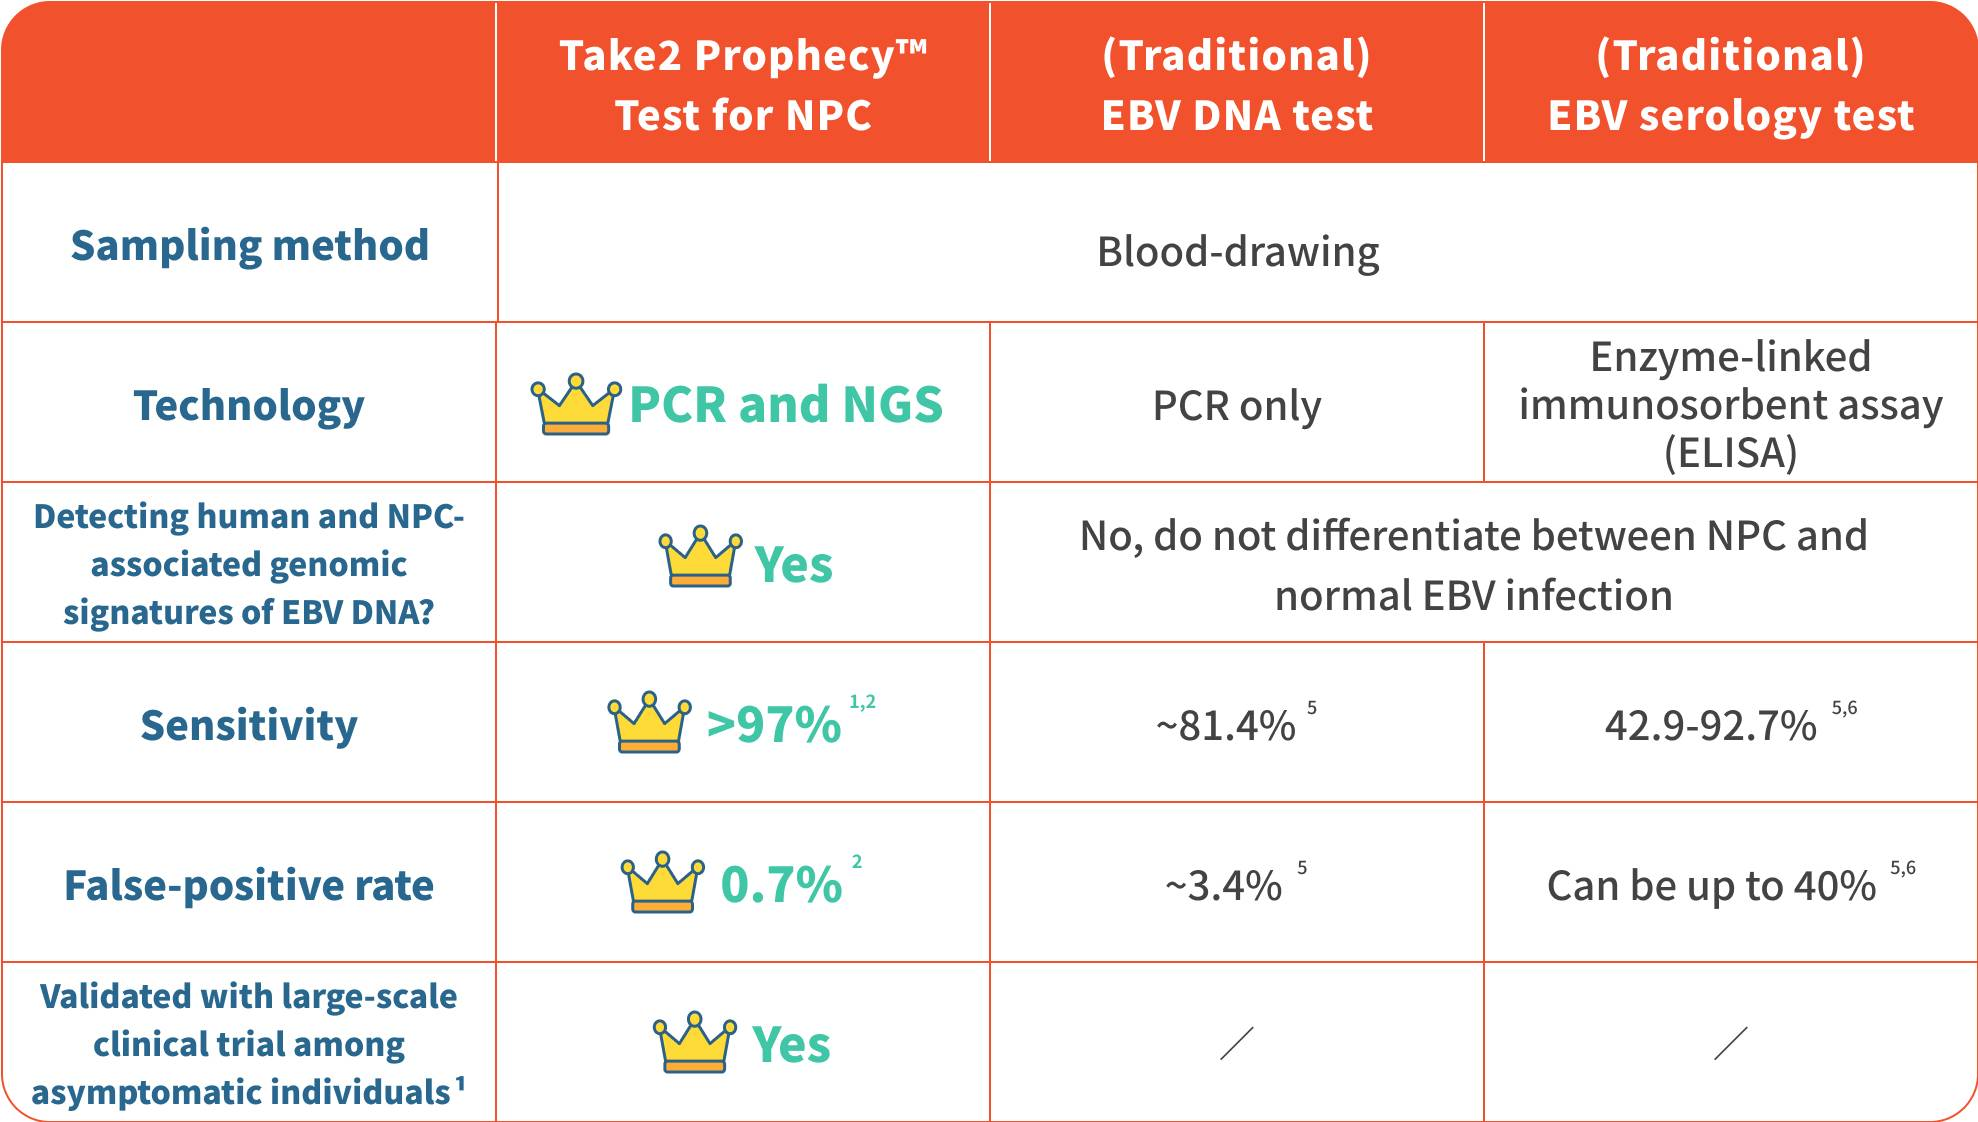
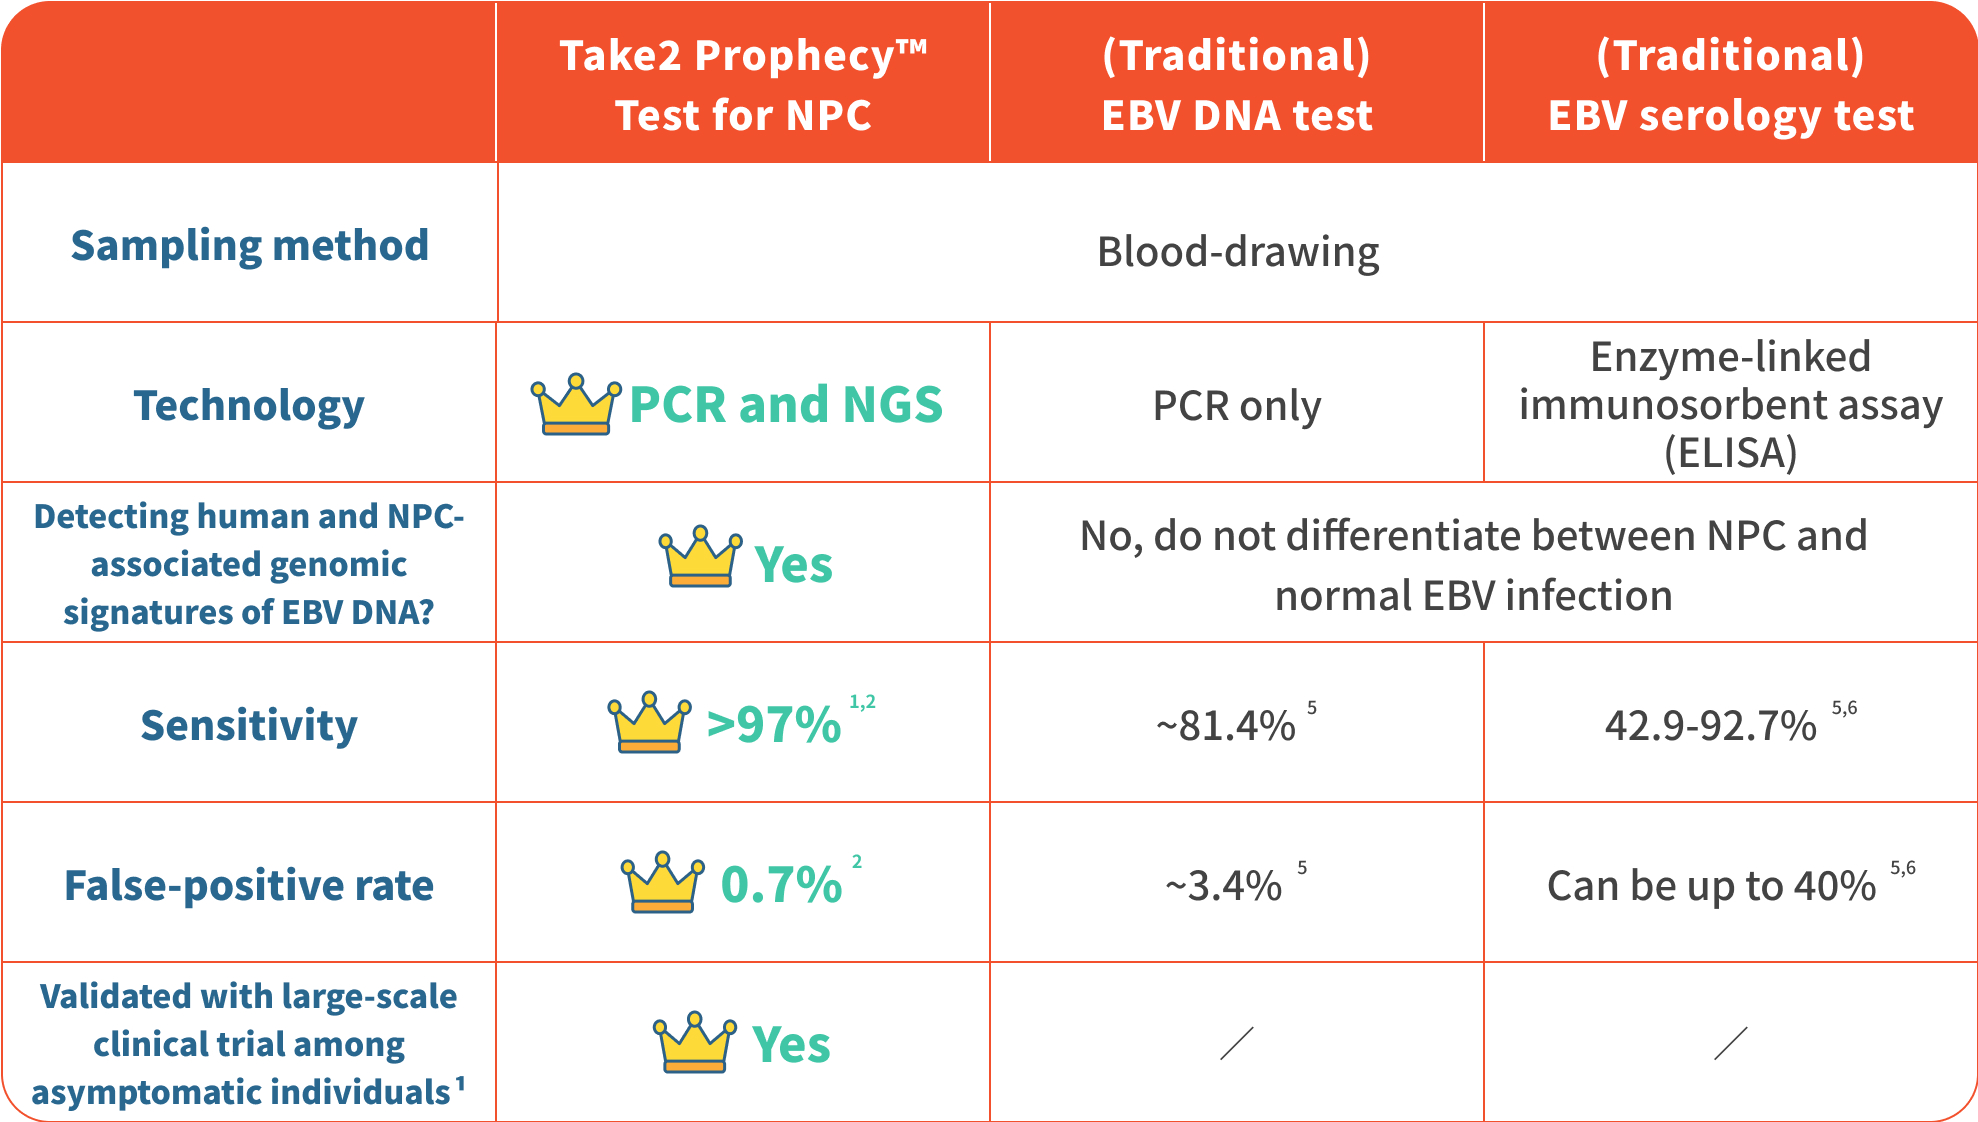
💄  样式优化

diff --git a/src/views/take2-prophecy.js b/src/views/take2-prophecy.js
@@ -399,7 +399,7 @@ const useStyles = makeStyles((theme) => ({
     alignItems: 'center',
     overflow: 'hidden',
     width: '100%',
-    height: 560,
+    height: 530,
     marginRight: theme.spacing(5),
     [theme.breakpoints.down('xs')]: {
       marginRight: 0,
@@ -585,7 +585,7 @@ const CancerScreen = () => {
                 <Box className={classes.tableTitle} ml={matches ? 1 : 10} mb={3}>
                   {t('products_and_services.take2_prophecy.tableTitle')}
                 </Box>
-                <Box height={matches ? 300 : 560} overflow='scroll'>
+                <Box height={matches ? 300 : 560} overflow={matches ? 'scroll' : ''}>
                   <ImageTranslation
                     className={classes.prophecyImgWrapper1}
                     filename='take2_prophecy_table'
